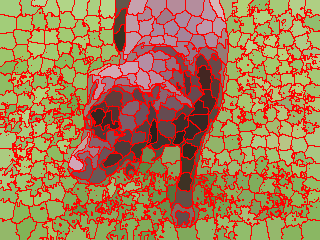
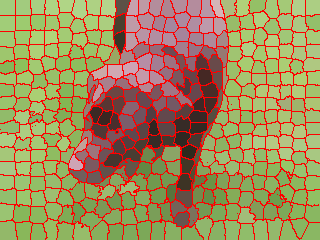
readme

diff --git a/README.md b/README.md
@@ -10,7 +10,7 @@ Tested in Ubuntu 14.04 with ROS indigo
 	make
 	#./SLIC num_of_superpixels weight_factor image_out
 	#example
-	./SLIC images/dog.png 400 20 images/out.png
+	./SLIC images/dog.png 400 40 images/out.png
 
 <p align="center">
   <img src="https://github.com/CarlosUrteaga/SLIC/blob/master/images/dog.png?raw=true" alt="Dog"/>
